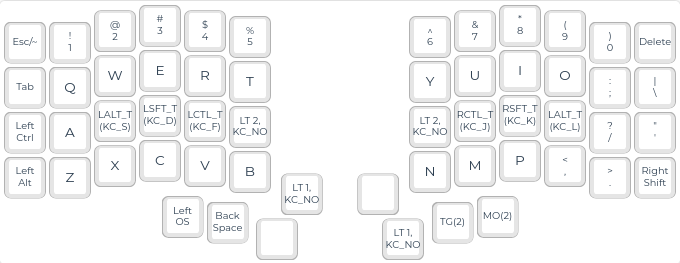
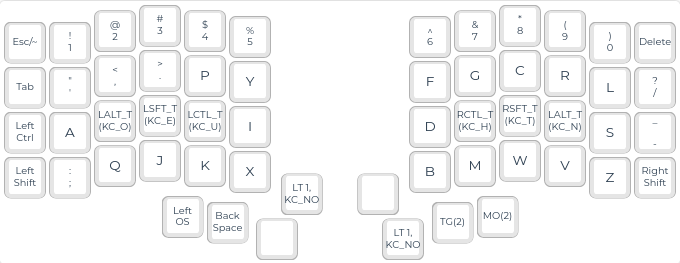
add dvorak layout

diff --git a/MarianaPicolo/keymap.c b/MarianaPicolo/keymap.c
@@ -1,24 +1,24 @@
 #include QMK_KEYBOARD_H
 
-#define _QWERTY 0
+#define _DVORAK 0
 #define _LOWER 1
 #define _RAISE 2
 #define _ADJUST 3
 
 // Left-hand home row mods: GASC
 // #define HOME_A LGUI_T(KC_A)
-#define HOME_S LALT_T(KC_S)
-#define HOME_D LSFT_T(KC_D)
-#define HOME_F LCTL_T(KC_F)
+#define HOME_O LALT_T(KC_O)
+#define HOME_E LSFT_T(KC_E)
+#define HOME_U LCTL_T(KC_U)
 
 // Right-hand home row mods
-#define HOME_J RCTL_T(KC_J)
-#define HOME_K RSFT_T(KC_K)
-#define HOME_L LALT_T(KC_L)
+#define HOME_H RCTL_T(KC_H)
+#define HOME_T RSFT_T(KC_T)
+#define HOME_N LALT_T(KC_N)
 // #define HOME_SCLN RGUI_T(KC_SCLN)
 
 enum custom_keycodes {
-    QWERTY = SAFE_RANGE,
+    DVORAK = SAFE_RANGE,
     LOWER,
     RAISE,
     ADJUST,
@@ -26,17 +26,17 @@ enum custom_keycodes {
 
 const uint16_t PROGMEM keymaps[][MATRIX_ROWS][MATRIX_COLS] = {
 
-    [_QWERTY] = LAYOUT(
+    [_DVORAK] = LAYOUT(
         //┌────────┬────────┬────────┬────────┬────────┬────────┐                          ┌────────┬────────┬────────┬────────┬────────┬────────┐
            KC_GESC, KC_1,    KC_2,    KC_3,    KC_4,    KC_5,                               KC_6,    KC_7,    KC_8,    KC_9,    KC_0,    KC_DEL,
         //├────────┼────────┼────────┼────────┼────────┼────────┤                          ├────────┼────────┼────────┼────────┼────────┼────────┤
-           KC_TAB,  KC_Q,    KC_W,    KC_E,    KC_R,    KC_T,                               KC_Y,    KC_U,    KC_I,    KC_O,    KC_SCLN, KC_BSLS,
+           KC_TAB,  KC_QUOT, KC_COMM, KC_DOT,  KC_P,    KC_Y,                               KC_F,    KC_G,    KC_C,    KC_R,    KC_L,    KC_SLSH,
         //├────────┼────────┼────────┼────────┼────────┼────────┤                          ├────────┼────────┼────────┼────────┼────────┼────────┤
-           KC_LCTL, KC_A,    HOME_S,  HOME_D,  HOME_F,  LT(2, KC_G),                       LT(2, KC_H), HOME_J, HOME_K,  HOME_L, KC_SLSH, KC_QUOT,
+           KC_LCTL, KC_A,    HOME_O,  HOME_E,  HOME_U,  KC_I,                               KC_D,    HOME_H,  HOME_T,  HOME_N,  KC_S,    KC_MINS,
         //├────────┼────────┼────────┼────────┼────────┼────────┼────────┐        ┌────────┼────────┼────────┼────────┼────────┼────────┼────────┤
-           KC_LALT, KC_Z,    KC_X,    KC_C,    KC_V,    KC_B,   LT(1, KC_ENT),     KC_NO,   KC_N,    KC_M,    KC_P,    KC_COMM, KC_DOT,  KC_RSFT,
+           KC_LSFT, KC_SCLN, KC_Q,    KC_J,    KC_K,    KC_X,   LT(1, KC_ENT),     KC_NO,   KC_B,    KC_M,    KC_W,    KC_V,    KC_Z,    KC_RSFT,
         //└────────┴────────┴────────┴───┬────┴───┬────┴───┬────┴───┬────┘        └───┬────┴───┬────┴───┬────┴───┬────┴────────┴────────┴────────┘
-                                          KC_LGUI, KC_BSPC, KC_NO,                    LT(1, KC_SPC), TG(2), MO(2)
+                                          KC_LGUI,  KC_BSPC, KC_NO,                   LT(1, KC_SPC),TG(2), MO(2)
                                       // └────────┴────────┴────────┘                 └────────┴────────┴────────┘
         ),
 
@@ -46,7 +46,7 @@ const uint16_t PROGMEM keymaps[][MATRIX_ROWS][MATRIX_COLS] = {
         //├────────┼────────┼────────┼────────┼────────┼────────┤                          ├────────┼────────┼────────┼────────┼────────┼────────┤
            KC_TILD, KC_EXLM, KC_AT,   KC_HASH, KC_DLR,  KC_PERC,                            KC_CIRC, KC_AMPR, KC_ASTR, KC_LPRN, KC_RPRN, KC_PGDN,
         //├────────┼────────┼────────┼────────┼────────┼────────┤                          ├────────┼────────┼────────┼────────┼────────┼────────┤
-           KC_NO,   KC_NO,   KC_NO,   KC_NO,   KC_MINS, KC_LCBR,                            KC_RCBR, KC_PLUS, KC_NO,   KC_NO,   KC_NO,   KC_NO,
+           KC_NO,   KC_NO,   KC_NO,   KC_PIPE, KC_MINS, KC_LCBR,                            KC_RCBR, KC_PLUS, KC_NO,   KC_NO,   KC_NO,   KC_NO,
         //├────────┼────────┼────────┼────────┼────────┼────────┼────────┐        ┌────────┼────────┼────────┼────────┼────────┼────────┼────────┤
            _______, KC_NO,   KC_NO,   KC_NO,   KC_UNDS, KC_LBRC, KC_TAB,           KC_NO,  KC_RBRC, KC_PEQL, KC_NO,   KC_NO,   KC_NO,   KC_NO,
         //└────────┴────────┴────────┴───┬────┴───┬────┴───┬────┴───┬────┘        └───┬────┴───┬────┴───┬────┴───┬────┴────────┴────────┴────────┘
@@ -84,9 +84,9 @@ const uint16_t PROGMEM keymaps[][MATRIX_ROWS][MATRIX_COLS] = {
 
 bool process_record_user(uint16_t keycode, keyrecord_t *record) {
     switch (keycode) {
-        case QWERTY:
+        case DVORAK:
             if (record->event.pressed) {
-                set_single_persistent_default_layer(_QWERTY);
+                set_single_persistent_default_layer(_DVORAK);
             }
             return false;
             break;
